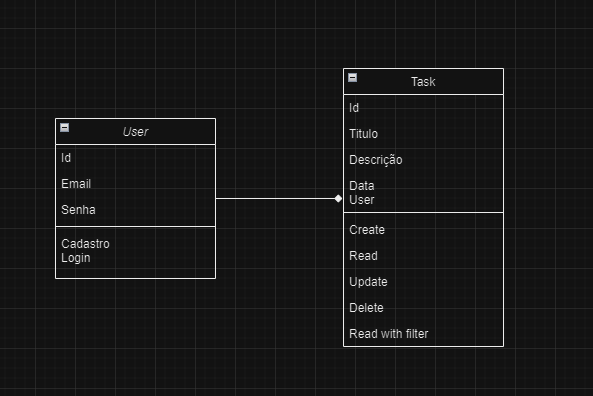
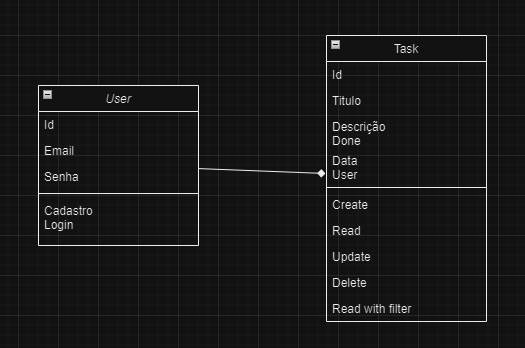
refactor projetoLab

Changed region(s): [[0.061, 0.1149, 0.8533, 0.8908], [0.579, 0.6322, 0.7924, 0.9195]]

diff --git a/projetoLab/Task_DAO.py b/projetoLab/Task_DAO.py
@@ -1,45 +1,46 @@
 from database import Database
 from bson.objectid import ObjectId
 
-from projetoLab.User import User
+from projetoLab.Task import Task
 
 
-class UserDAO:
+class TaskDAO:
     def __init__(self, database: str, collection: str) -> None:
         self.db = Database(database, collection)
 
-    def create_user(self, user: User):
+    def create_task(self, task: Task):
         try:
-            res = self.db.collection.insert_one(user.get_dict())
-            print(f"User criado com o id: {res.inserted_id}")
+            res = self.db.collection.insert_one(task.get_dict())
+            print(f"Task criado com o id: {res.inserted_id}")
             return res.inserted_id
         except Exception as e:
-            print(f"Ocorreu um erro na criação do User: {e}")
+            print(f"Ocorreu um erro na criação do Task: {e}")
             return None
 
-    def read_user_by_id(self, id: str):
+    def read_task_by_id(self, id: str):
         try:
             res = self.db.collection.find_one({"_id": ObjectId(id)})
             return res
         except Exception as e:
-            print(f"Ocorreu um erro buscando user: {e}")
+            print(f"Ocorreu um erro buscando task: {e}")
             return None
 
-    def update_user(self, id: str, user: User):
+
+    def update_task(self, id: str, task: Task):
         try:
             res = self.db.collection.update_one(
-                {"_id": ObjectId(id)}, {"$set": user.get_dict()})
-            print("User atualizado!")
+                {"_id": ObjectId(id)}, {"$set": task.get_dict()})
+            print("Task atualizado!")
             return res.modified_count
         except Exception as e:
-            print(f"Um erro ocorreu atualizando o User: {e}")
+            print(f"Um erro ocorreu atualizando o Task: {e}")
             return None
 
-    def delete_user(self, id: str):
+    def delete_task(self, id: str):
         try:
             res = self.db.collection.delete_one({"_id": ObjectId(id)})
-            print(f"User deletado!")
+            print(f"Task deletado!")
             return res.deleted_count
         except Exception as e:
-            print(f"Ocorreu um erro ao excluir um User: {e}")
+            print(f"Ocorreu um erro ao excluir um Task: {e}")
             return None

diff --git a/projetoLab/Task.py b/projetoLab/Task.py
@@ -1,8 +1,18 @@
 from User import User
 
 class Task:
-    def __init__(self,  user: User, titulo, descricao, data) -> None:
+    def __init__(self,  user: User, titulo, descricao, data, done: bool) -> None:
         self.user = user
         self.titulo = titulo
         self.descricao = descricao
         self.data = data
+        self.done = done
+
+    def get_dict(self) -> dict:
+        return {
+            "titulo": self.titulo,
+            "descricao": self.descricao,
+            "data": self.data,
+            "done": self.done,
+            "user": self.user.get_dict()
+        }

diff --git a/projetoLab/user_cli.py b/projetoLab/user_cli.py
@@ -1,5 +1,4 @@
-from projetoLab.User_DAO import MotoristaDAO
-from Passageiro import Passageiro
+from projetoLab.User_DAO import UserDAO
 from projetoLab.User import User
 from projetoLab.Task import Corrida
 
@@ -23,8 +22,8 @@ class SimpleCLI:
                 print("Invalid command. Try again.")
 
 
-class MotoristaCLI(SimpleCLI):
-    def __init__(self, motoristaDAO: MotoristaDAO):
+class UserCLI(SimpleCLI):
+    def __init__(self, motoristaDAO: UserDAO):
         super().__init__()
         self.motoristaDAO = motoristaDAO
         self.add_command("create", self.create_motorista)

diff --git a/projetoLab/main.py b/projetoLab/main.py
@@ -1,7 +1,7 @@
-from projetoLab.user_cli import MotoristaCLI
-from projetoLab.User_DAO import MotoristaDAO
+from projetoLab.user_cli import UserCLI
+from projetoLab.User_DAO import UserDAO
 
 if __name__ == '__main__':
-    motoristaDAO = MotoristaDAO('exav1', 'Motoristas')
-    cli = MotoristaCLI(motoristaDAO)
+    motoristaDAO = UserDAO('exav1', 'Motoristas')
+    cli = UserCLI(motoristaDAO)
     cli.run()

diff --git a/projetoLab/User.py b/projetoLab/User.py
@@ -5,3 +5,9 @@ class User:
     def __init__(self, email, senha) -> None:
         self.email = email
         self.senha = senha
+
+    def get_dict(self) -> dict:
+        return {
+            "email": self.email,
+            "senha": self.senha
+        }
